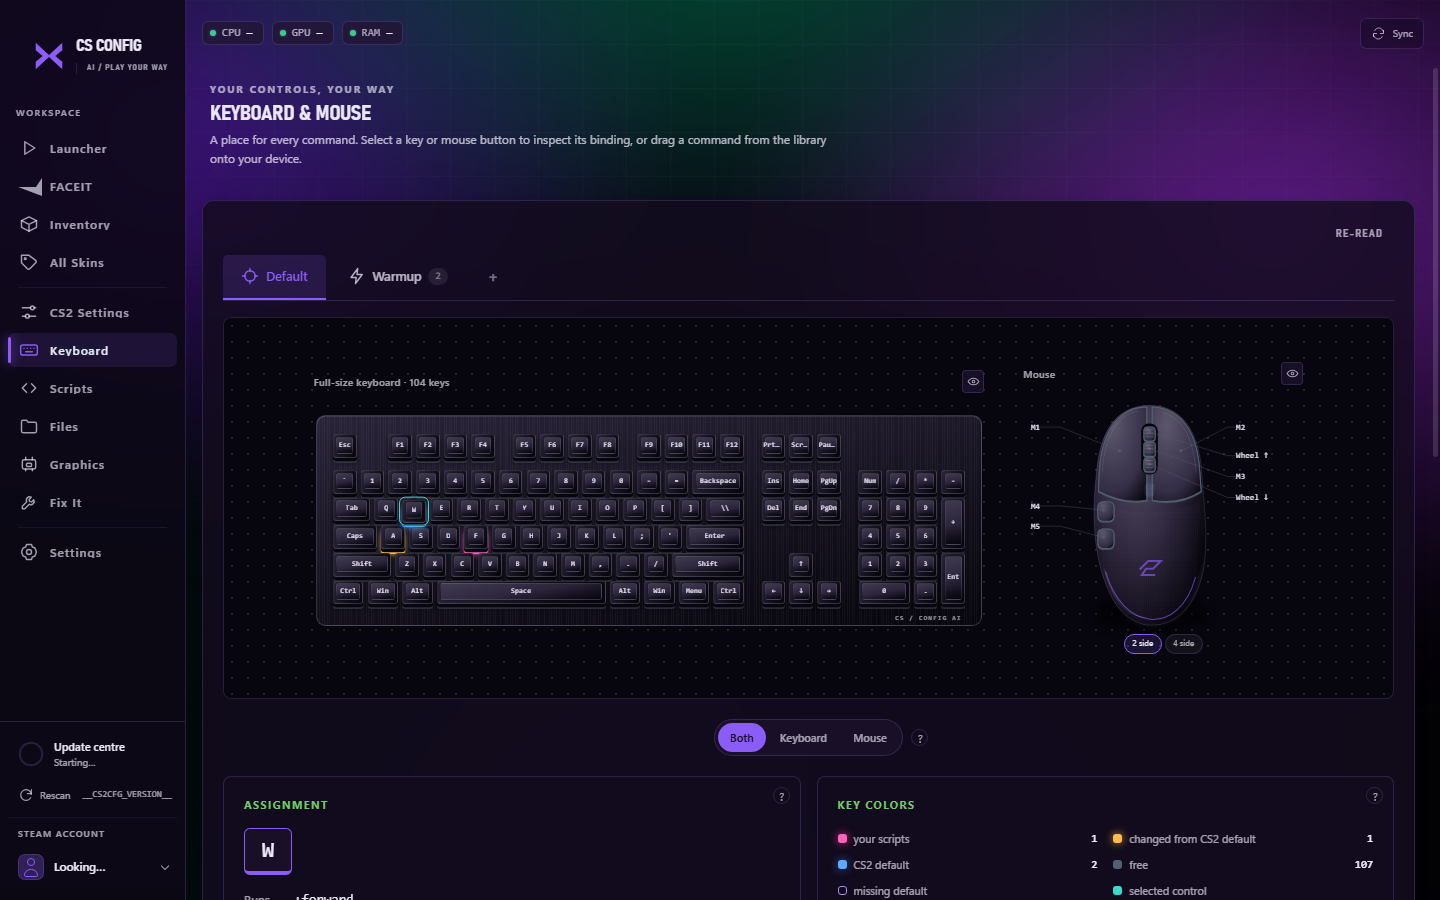
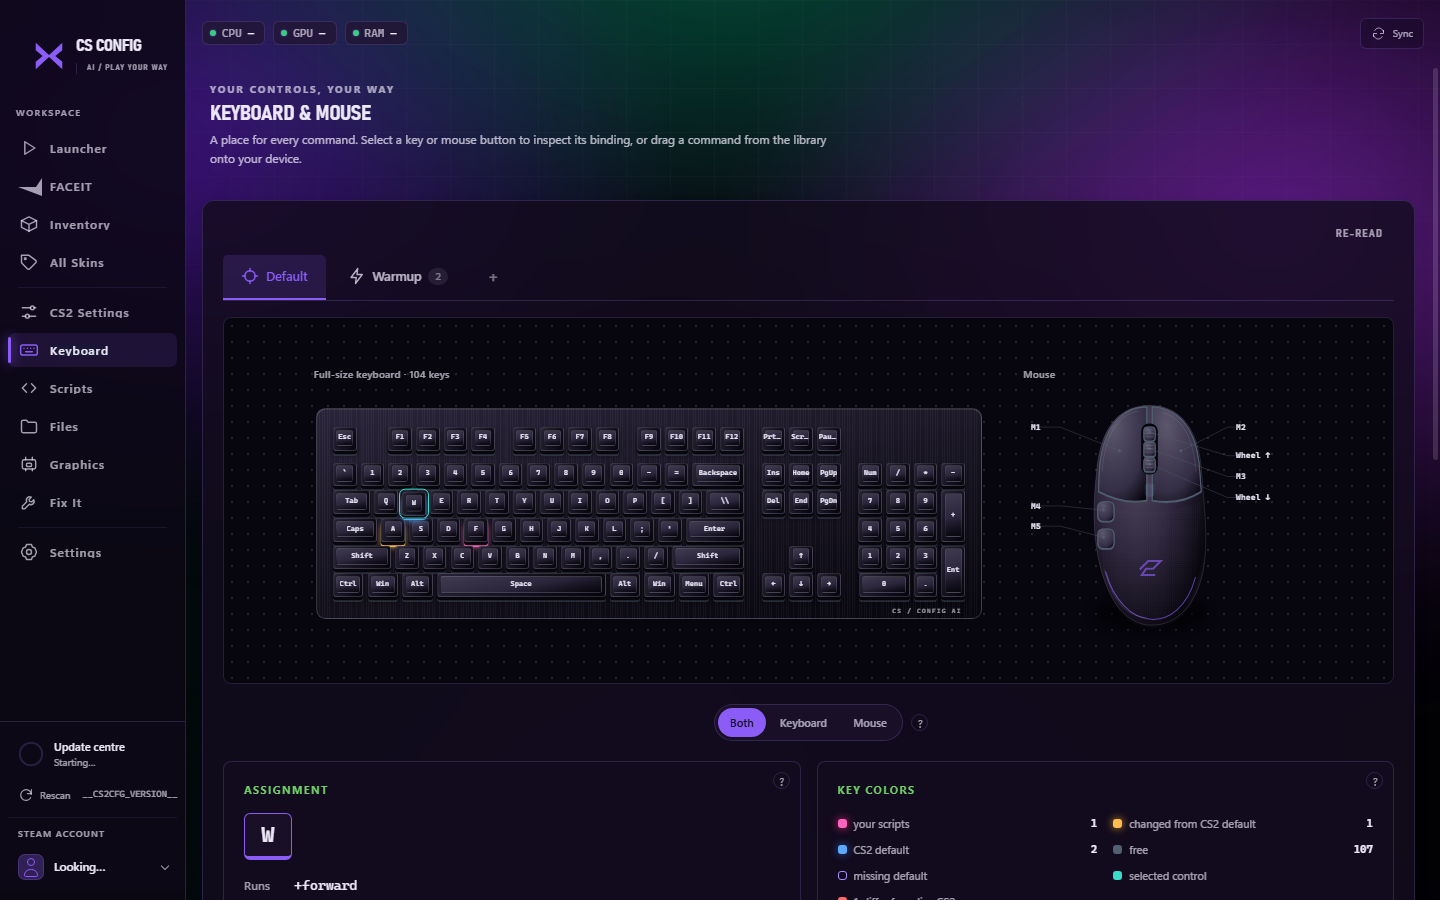
Keyboard tab: keep one focus control
The ghost/focus control was offered three times (an eye on each device,
the centred Both/Keyboard/Mouse toggle and a View card), and the 2/4 side
picker twice. Keep the centred toggle and the picker in the Mouse card.

diff --git a/cs2cfg/web/index.html b/cs2cfg/web/index.html
@@ -10441,8 +10441,7 @@ function kbGhosted(name) { return kbFocus !== 'both' && kbFocus !== name; }
 function kbPiece(name, inner) {
   return '<div class="kb-piece" data-piece="' + name + '"><div class="kb-device-head"><span>' +
     (name === 'board' ? 'Full-size keyboard · 104 keys' : 'Mouse') +
-    '</span><button class="kb-eye" data-kbghost="' + name + '" aria-label="Ghost ' +
-    (name === 'board' ? 'keyboard' : 'mouse') + '">' + kbIcon('eye') + '</button></div>' +
+    '</span></div>' +
     '<div class="kb-device-body">' + inner + '</div></div>';
 }
 function kbApplyFocus() {
@@ -10450,21 +10449,18 @@ function kbApplyFocus() {
     const ghost = kbGhosted(el.dataset.piece);
     el.classList.toggle('is-ghost', ghost);
     el.querySelector('.kb-device-body').inert = ghost;
-    el.querySelector('.kb-eye').setAttribute('aria-pressed', String(ghost));
     el.querySelectorAll('[data-kbcode]').forEach(control => {
       control.setAttribute('tabindex', ghost ? '-1' : '0');
       control.setAttribute('aria-disabled', String(ghost));
     });
   });
   document.querySelectorAll('[data-kbfocus]').forEach(el => el.setAttribute('aria-pressed', String(el.dataset.kbfocus === kbFocus)));
-  document.querySelectorAll('[data-kbghost-toggle]').forEach(el => { el.checked = kbGhosted(el.dataset.kbghostToggle); });
   document.querySelectorAll('.kb-hover-preview').forEach(el => el.remove());
 }
 function kbSetFocus(mode) {
   kbFocus = mode; kbApplyFocus();
   api('/api/prefs', {kb_focus: kbFocus}).catch(() => {});
 }
-function kbToggleGhost(name) { kbSetFocus(kbGhosted(name) ? 'both' : name === 'board' ? 'mouse' : 'board'); }
 function kbCardTitle(title, help) {
   return '<h3 class="kb-card-title">' + title + '<button class="kb-help" aria-label="' +
     esc(help) + '" title="' + esc(help) + '">?</button></h3>';
@@ -10521,7 +10517,7 @@ function renderKeyboard() {
   box.innerHTML =
     '<div class="kb-workspace"><div class="kb-scene" id="kb-scene"><div class="kb-rig">' +
     kbPiece('board', '<div class="kb-stage"><div class="kb-board">' + rows + '</div></div>') +
-    kbPiece('mouse', '<div class="kb-mouse">' + mouseModel() + kbShapePicker() + '</div>') +
+    kbPiece('mouse', '<div class="kb-mouse">' + mouseModel() + '</div>') +
     '</div></div><div class="kb-focus-row"><div id="kb-focus" class="kb-mode" role="group" aria-label="Device focus"></div>' +
     '<button class="kb-help" aria-label="About device focus" title="Fade the other device so you can focus on one. Faded devices can\'t be clicked.">?</button></div><div class="kb-settings">' +
     '<section class="kb-card kb-inspector" aria-label="Assignment inspector">' +
@@ -10542,10 +10538,7 @@ function renderKeyboard() {
     kbShapePicker() + '<div class="kb-mouse-bindings">' +
     ['mouse1','mouse2','mouse3','mouse4','mouse5', ...(mouseShape === 'four' ? ['mouse6','mouse7'] : []), 'mwheelup','mwheeldown'].map(code =>
       '<div><span>' + esc(code) + '</span><code>' + esc(kbLookup(code, code)?.command || 'Free') + '</code></div>').join('') +
-    '</div></section><section class="kb-card">' + kbCardTitle('View', 'Ghost a device to focus on the other. Its position stays the same.') +
-    ['board','mouse'].map(name => '<label class="kb-view-toggle"><input type="checkbox" role="switch" data-kbghost-toggle="' +
-      name + '"><span>Ghost ' + (name === 'board' ? 'keyboard' : 'mouse') + '</span></label>').join('') +
-    '</section><section class="kb-card kb-how">' + kbCardTitle('How it works', 'Assignments are saved through the current configuration collection.') +
+    '</div></section><section class="kb-card kb-how">' + kbCardTitle('How it works', 'Assignments are saved through the current configuration collection.') +
     '<p>Select a control to inspect it. Drag a command onto a key to assign it.</p></section></div></div>';
   $('kb-focus').innerHTML = [['both','Both'],['board','Keyboard'],['mouse','Mouse']].map(([mode,label]) =>
     '<button data-kbfocus="' + mode + '" aria-pressed="' + (kbFocus === mode) + '">' + label + '</button>').join('');
@@ -13567,14 +13560,9 @@ async function loadKeyboard(force) {
   renderKeyboard();
 }
 
-document.addEventListener('change', e => {
-  const toggle = e.target.closest('[data-kbghost-toggle]');
-  if (toggle) kbToggleGhost(toggle.dataset.kbghostToggle);
-});
 document.addEventListener('click', e => {
-  const mode = e.target.closest('[data-kbfocus]'), eye = e.target.closest('[data-kbghost]');
+  const mode = e.target.closest('[data-kbfocus]');
   if (mode) kbSetFocus(mode.dataset.kbfocus);
-  if (eye) kbToggleGhost(eye.dataset.kbghost);
 });
 
 document.addEventListener("click", e => {

diff --git a/cs2cfg/web/assets/devices/workspace.css b/cs2cfg/web/assets/devices/workspace.css
@@ -105,9 +105,6 @@ html[data-theme="daylight"] [data-panel="keyboard"],html[data-theme="paper"] [da
 .kb-rig { display:grid; grid-template-columns:840px 360px; align-items:center; gap:32px; padding:20px 16px; width:1264px; box-sizing:border-box; flex:none; zoom:var(--kb-scale,1); }
 .kb-piece { min-width:0; position:relative; user-select:none; }
 .kb-device-head { display:flex; align-items:center; justify-content:space-between; padding:0 8px; margin-bottom:12px; height:28px; color:var(--muted); font:500 12px system-ui; letter-spacing:.04em; }
-.kb-eye { width:28px; height:28px; display:grid; place-items:center; border:1px solid var(--line); border-radius:5px; color:var(--muted); background:var(--panel-2); cursor:pointer; }
-.kb-eye .kb-ico-art { width:16px; height:16px; }
-.kb-eye[aria-pressed="true"] { color:var(--accent); border-color:var(--accent); }
 .kb-device-body { transition:opacity 180ms ease,filter 180ms ease; }
 .is-ghost .kb-device-body { opacity:.18; filter:saturate(.65); pointer-events:none; }
 [data-panel="keyboard"] .kb-stage { width:840px; display:flex; align-items:center; justify-content:center; padding:16px 0 24px; overflow:visible; }
@@ -133,11 +130,6 @@ html[data-theme="daylight"] [data-panel="keyboard"],html[data-theme="paper"] [da
 .kb-help { display:grid; place-items:center; width:17px; height:17px; border-radius:50%; border:1px solid var(--line); background:transparent; color:var(--muted); font:11px system-ui; cursor:help; }
 .kb-inspector { position:relative; }
 .kb-card p { color:var(--muted); font-size:12px; line-height:1.7; margin:0; }
-.kb-view-toggle { display:flex; align-items:center; gap:10px; padding:10px 0; font-size:12px; cursor:pointer; }
-.kb-view-toggle input { appearance:none; width:30px; height:18px; border:1px solid var(--line); border-radius:20px; background:var(--panel-2); position:relative; cursor:pointer; flex:none; }
-.kb-view-toggle input::after { content:''; position:absolute; width:10px; height:10px; border-radius:50%; background:var(--muted); left:3px; top:3px; }
-.kb-view-toggle input:checked { background:var(--accent-dim); border-color:var(--accent); }
-.kb-view-toggle input:checked::after { left:15px; background:var(--accent); }
 .kb-mouse-bindings { margin-top:14px; }
 .kb-mouse-bindings div { display:flex; justify-content:space-between; gap:12px; padding:5px 0; border-bottom:1px solid var(--line); color:var(--muted); font-size:11px; }
 .kb-mouse-bindings code { color:var(--ink); overflow-wrap:anywhere; }
